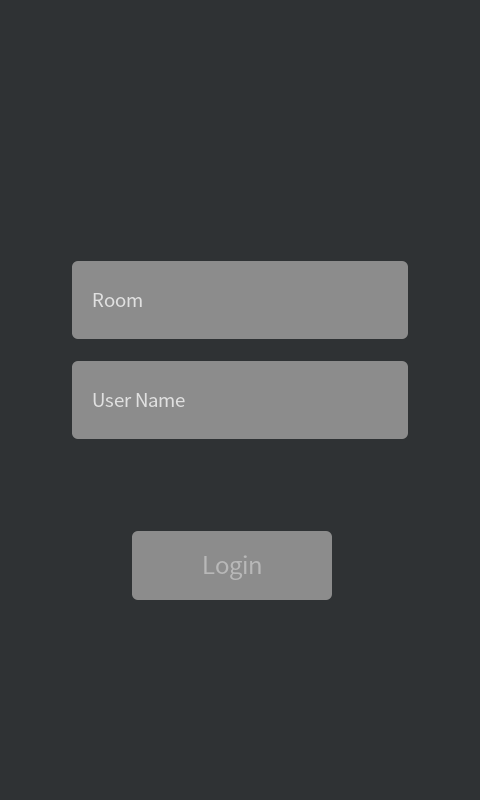
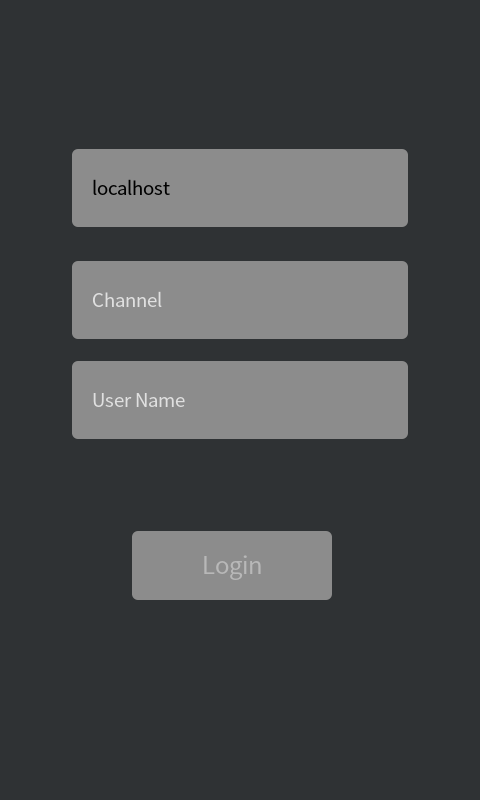
update pomelo-chat

Changed region(s): [[0.125, 0.1875, 0.875, 0.2812], [0.2188, 0.375, 0.3438, 0.4062]]

diff --git a/pomelo-chat/README.md b/pomelo-chat/README.md
@@ -3,16 +3,17 @@
 
 为了简化起见，服务器端完全用[Pomelo](https://github.com/NetEase/pomelo/wiki/Chat%E6%BA%90%E7%A0%81%E4%B8%8B%E8%BD%BD%E4%B8%8E%E5%AE%89%E8%A3%85)的DEMO了。
 
-1.先实现登录界面。这个很简单，放两个编辑器，分别用来输入聊天室名和用户名，再放一个按钮用来登录就行了。
+1.先实现登录界面。这个很简单，放三个编辑器，分别用来输入服务器、聊天室和用户名，再放一个按钮用来登录就行了。
 
 ![login](https://raw.githubusercontent.com/Holaverse/holastudio-demos/master/pomelo-chat/pomelo_chat_login.png)
 
 登录的实现代码：
 ```
-var username = this.win.getValueOf("username");
+var hostname = this.win.getValueOf("hostname");
 var roomname = this.win.getValueOf("roomname");
+var username = this.win.getValueOf("username");
 
-if(!username || !roomname) {
+if(!username || !roomname || !hostname) {
     return;
 }
 
@@ -26,7 +27,7 @@ function onLogin(data) {
     this.openWindow("chat", null, true, initData);
 }
 
-ChatClient.login(username, roomname, onLogin.bind(this));
+ChatClient.login(hostname, username, roomname, onLogin.bind(this));
 
 ```
 
@@ -62,89 +63,5 @@ ChatClient.send("*", str, function(username, target, msage) {});
 ```
 其它一些公共代码：
 ```
-function ChatClient() {
-}
-
-ChatClient.queryEntry = function(uid, callback) {
-    var route = 'gate.gateHandler.queryEntry';
-    pomelo.init({
-        host: window.location.hostname,
-        port: 3014,
-        log: true
-    }, function() {
-        pomelo.request(route, {
-            uid: uid
-        }, function(data) {
-            pomelo.disconnect();
-            if(data.code === 500) {
-                return;
-            }
-            callback(data.host, data.port);
-        });
-    });
-}
-
-ChatClient.login = function(username, rid, callback) {
-    ChatClient.queryEntry(username, function(host, port) {
-        pomelo.init({
-            host: host,
-            port: port,
-            log: true
-        }, function() {
-            var route = "connector.entryHandler.enter";
-            pomelo.request(route, {
-                username: username,
-                rid: rid
-            }, function(data) {
-                if(data.error) {
-                    return;
-                }
-                callback(data);
-                ChatClient.rid = rid;
-                ChatClient.username = username;                
-            });
-        });
-    });
-}
-
-ChatClient.send = function(target, msg, callback) {
-    var rid = ChatClient.rid;
-    var username = ChatClient.username;
-    var route = "chat.chatHandler.send";
-    pomelo.request(route, {
-                rid: rid,
-                content: msg,
-                from: username,
-                target: target
-            }, function(data) {
-                if(target != '*' && target != username) {
-                    callback(username, target, msg);
-                }
-    });
-}
-
-ChatClient.addEventListeners = function(win) {
-    var list = win.find("list-view");
-    function onChatMessage(data) {
-        var str = data.target === "*" ? data.msg : data.target + ":" + data.msg;
-        if(data.from !== win.username) {
-            list.addLeftItem("images/logos/facebook.png", data.from, str);
-        }
-    }
-
-    function onUserEnter(data) {
-        list.addCenterItem(data.user + ' joined');
-    }
-
-    function onUserLeft(data) {
-        list.addCenterItem(data.user + ' left');
-    }
-
-    pomelo.on('onChat', onChatMessage);
-    pomelo.on('onAdd', onUserEnter);
-    pomelo.on('onLeave', onUserLeft);
-}
-
-require('boot');
 ```
 
